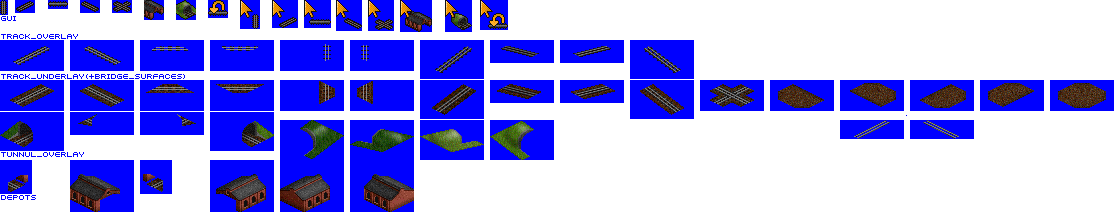
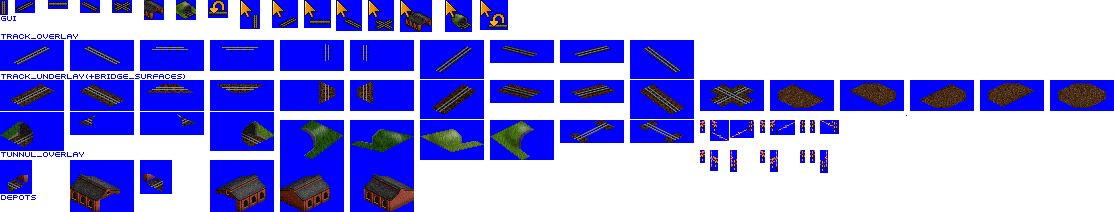
Add #204: Level crossing of Narrow gauge

Changed region(s): [[0.4883, 0.566, 0.8851, 0.6792], [0.6104, 0.7075, 0.763, 0.8208]]

diff --git a/docs/changelog.md b/docs/changelog.md
@@ -1,6 +1,6 @@
 2.0.4+
 -----
- * 추가: 762mm 협궤 선로 [#204]
+ * 추가: 762mm 협궤 선로 및 건널목 [#204]
  * 추가: 혀기 7형 증기 기관차 [#205]
  * 추가: 협궤 객차 [#205]
  * 수정: KTX-이음의 수송량이 2배로 적용되던 현상 [#206]
